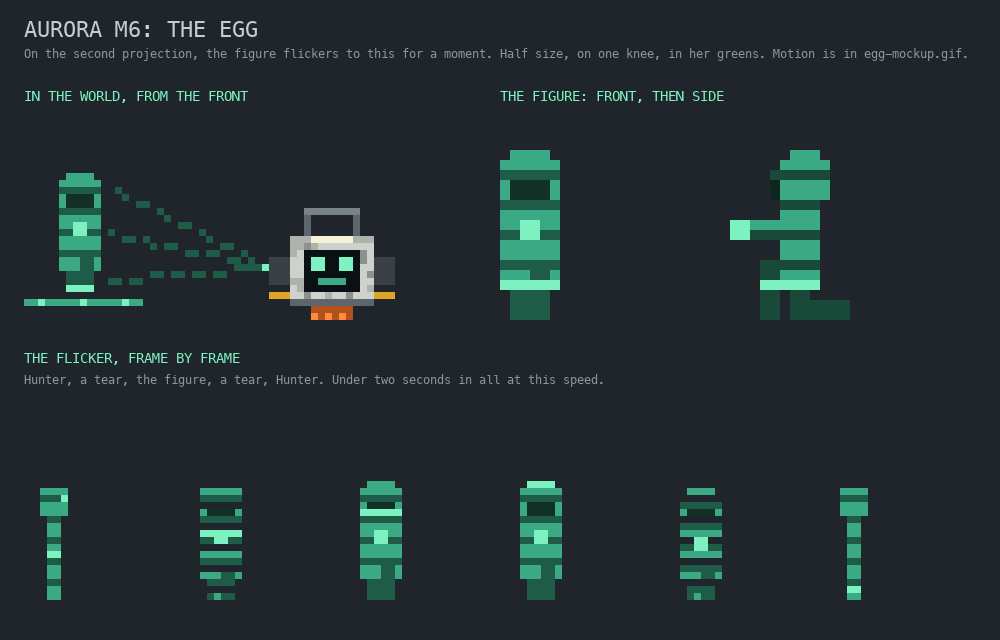
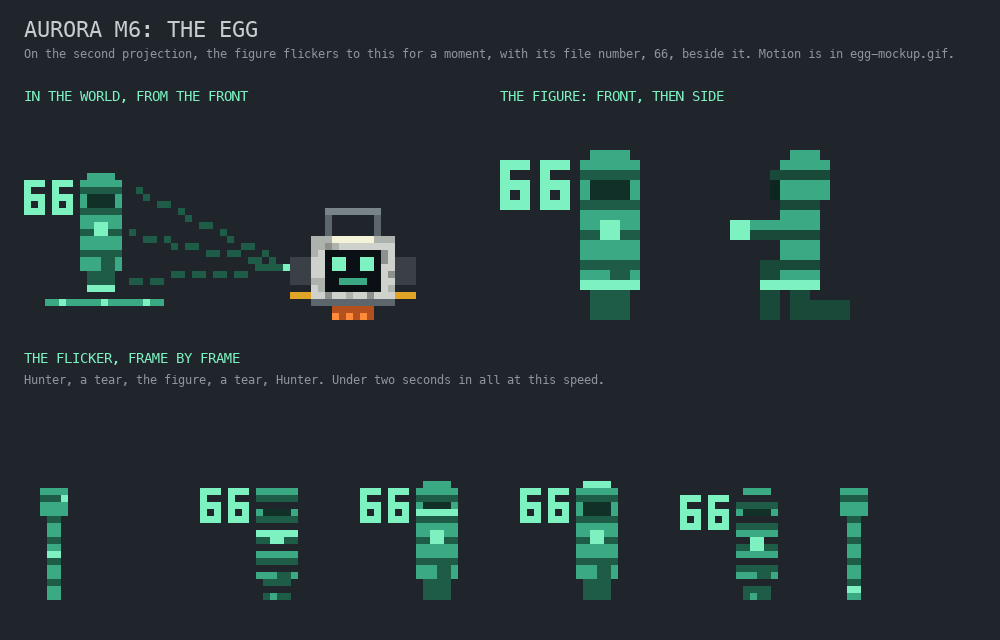
docs: put the file number on the egg

diff --git a/docs/art/aurora-shepherd/make_hologram_mockup.py b/docs/art/aurora-shepherd/make_hologram_mockup.py
@@ -227,6 +227,11 @@ def hooded():
     part(cells, -2, 16, -2, 2, 17, 1, 'glow2')
     part(cells, -2, 12, 2, 2, 15, 3, 'holo2')  # The dark inside the hood. No face.
     part(cells, -1, 8, 5, 1, 10, 7, 'glow')  # What it holds out.
+    for left in (-11, -7):  # The file's number, floating beside it. Drawn, never said.
+        for y, row in enumerate(('###', '#.#', '###', '#..', '###')):
+            for x, texel in enumerate(row):
+                if texel == '#':
+                    cells[(left + x, 11 + y, 0)] = 'glow'
     return cells
 
 
@@ -251,7 +256,7 @@ def egg_sheet():
     img = Image.new('RGB', (1000, 640), C['bg'])
     d = ImageDraw.Draw(img)
     d.text((24, 16), 'AURORA M6: THE EGG', font=font(22), fill=C['text'])
-    d.text((24, 46), 'On the second projection, the figure flickers to this for a moment. Half size, on one knee, in her greens. Motion is in egg-mockup.gif.',
+    d.text((24, 46), 'On the second projection, the figure flickers to this for a moment, with its file number, 66, beside it. Motion is in egg-mockup.gif.',
            font=font(12), fill=C['dim'])
     d.text((24, 88), 'IN THE WORLD, FROM THE FRONT', font=font(14), fill=C['glow'])
     draw_scene(d, lambda tick: scan(hooded(), tick, 'glow'), 0, 24, 320, 7)

diff --git a/docs/aurora-m6-lines.md b/docs/aurora-m6-lines.md
@@ -20,7 +20,7 @@ Each took the recommendation, 2026-11-06.
 
 1. **Frostmite's strategy (Ruling 19).** It holds in code, with three limits. See "Frostmite, for a verdict". Answer: keep, tested on a live swarm at the pass.
 2. **The twelve items (Ruling 12).** See "The twelve items, for a verdict". Answer: keep all twelve. The thermostat's tip is the weakest.
-3. **What the egg turns into (Ruling 16).** The figure "flickers to another shape", and no mockup drew that shape. A look needs an approved mockup. Answer: a small hooded figure on one knee, in her green, standing in for the figure that asks for help. It is no film character and carries no marks. Drawn in `art/aurora-shepherd/egg-mockup.png` and `egg-mockup.gif`, for approval before Task 6.
+3. **What the egg turns into (Ruling 16).** The figure "flickers to another shape", and no mockup drew that shape. A look needs an approved mockup. Answer: a small hooded figure on one knee, in her green, standing in for the figure that asks for help. It is no film character and carries no marks. Left as is on 2026-11-06, with a floating file number, 66, added at the owner's ask. The number is drawn on the hologram and never said, so the guard on "six" stays absolute. Drawn in `art/aurora-shepherd/egg-mockup.png` and `egg-mockup.gif`, for approval before Task 6.
 4. **The gag's other items (Ruling 28).** The Stuffed Penguin is the first and the rest are yours. Answer: the penguin alone for now.
 5. **Seven greetings.** Ruling 23 asks for six to eight, and there are seven below, on top of the first and the long-gone lines. Answer: all seven stay.
 
